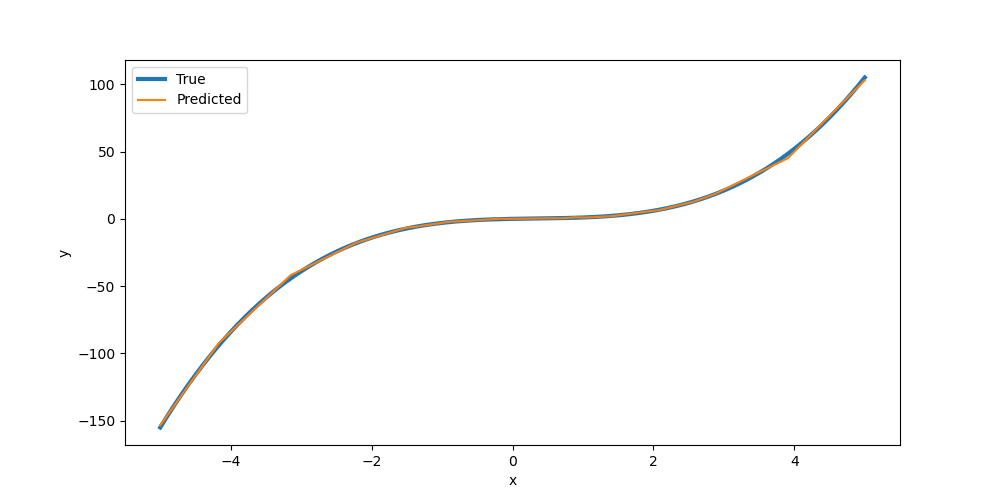
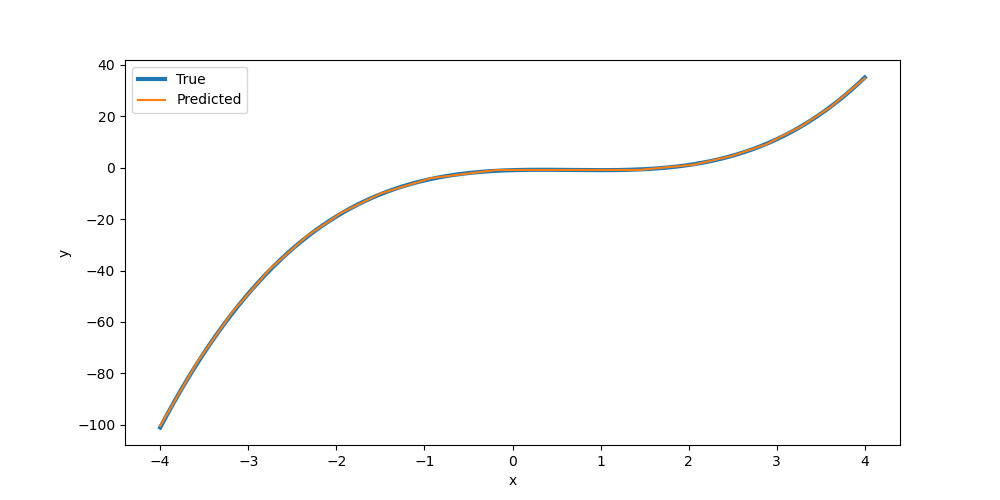
task1

diff --git a/DLhw1/task1.py b/DLhw1/task1.py
@@ -1,52 +1,56 @@
 from jittor import nn
 import jittor as jt
-import os 
 import numpy as np
-import matplotlib.pyplot as plt
 
-from jittor import distributions
 from model import Regressor
 from dataset import RandomData
+import utils
 
-def task1(to_fit, num_epoch = 1000, lr = 1e-2):
+def task1(function_to_fit, num_epoch = 800, lr = 5e-3, interval = [-5, 5]):
 
-    train_data = RandomData(to_fit, sample_size=800, batch_size=800)
-    test_data = RandomData(to_fit, sample_size=200)
+    train_data = RandomData(function_to_fit, sample_size=800, interval = interval)
+    test_data = RandomData(function_to_fit, sample_size=200, interval = interval)
     model = Regressor()
     optim = jt.optim.Adam(model.parameters(), lr)
     loss = nn.MSELoss()
     
+    train_losses, test_losses = [], []
     for epoch_idx in range(1, num_epoch + 1):
-        train(epoch_idx, model, optim, train_data, loss)
-    plot(to_fit, model)
+        train_loss = train(model, optim, train_data, loss)
+        test_loss = test(model, test_data, loss)
+        train_losses.append(train_loss)
+        test_losses.append(test_loss)
+        print(f'Epoch: {epoch_idx} \t Train Loss: {train_loss:.4f} \t Test Loss: {test_loss:.4f}')
+    utils.plot_fit(function_to_fit, model, interval)
+    utils.plot_loss(train_losses, test_losses)
 
-def train(epoch_idx, model, optimizer, train_data, loss_func):
+def train(model, optimizer, train_data, loss_func):
     model.train()
 
-    for batch_idx, (x, y) in enumerate(train_data):
+    train_losses = []
+    for _, (x, y) in enumerate(train_data):
         y_pred = model(x)
         loss = loss_func(y_pred, y)
+        train_loss = loss.item()
+        train_losses.append(train_loss)
         optimizer.step(loss)
-        print(loss.item())
+    return np.mean(train_losses)
 
-def plot(pdf, model, interval=[-5, 5], num_samples=1000):
 
-    plt.figure(figsize=(10, 5))
-    x = np.linspace(*interval, num_samples)
-    x_in = jt.array(x).reshape(-1, 1)
-    y = pdf(x_in)
-    y_pred = model(x_in)
-    y, y_pred = y.data, y_pred.data
-    plt.plot(x, y, label='True', linewidth=3)
-    plt.plot(x, y_pred, label='Predicted')
-    plt.xlabel('x')
-    plt.ylabel('y')
-    plt.legend()
-    plt.savefig(os.path.join('figs', 'fit.png'))
+def test(model, test_data, loss_func):
+    model.eval()
+
+    test_losses = []
+    with jt.no_grad():
+        for _, (x, y) in enumerate(test_data):
+            y_pred = model(x)
+            loss = loss_func(y_pred, y)
+            test_loss = loss.item()
+            test_losses.append(test_loss)
+    return np.mean(test_losses)
 
 
 if __name__ == "__main__":
     jt.set_seed(0)
-    gaussian = distributions.Normal(0, 1)
-    function_to_fit = lambda x : x**3 - x**2 + x 
-    task1(function_to_fit)
+    function_to_fit = lambda x : x ** 3 - 2 * x ** 2 + x - 1
+    task1(function_to_fit, interval=[-4, 4])

diff --git a/DLhw1/utils.py b/DLhw1/utils.py
@@ -1,0 +1,33 @@
+import os
+import jittor as jt
+import numpy as np
+import matplotlib.pyplot as plt
+
+
+def plot_loss(train_losses, test_losses):
+    
+    num_epoch = len(train_losses)
+    epochs = np.arange(1, num_epoch+1)
+
+    plt.figure(figsize=(10, 5))
+    plt.plot(epochs, train_losses, label='Train loss')
+    plt.plot(epochs, test_losses, label='Test loss')
+    plt.xlabel('Epochs')
+    plt.ylabel('Loss')
+    plt.ylim(0, 20)
+    plt.legend()
+    plt.savefig(os.path.join('figs', 'loss.png'))
+
+def plot_fit(f, model, interval, num_samples=1000):
+
+    plt.figure(figsize=(10, 5))
+    x = np.linspace(*interval, num_samples)
+    x_jt = jt.array(x).reshape(-1, 1)
+    y, y_pred = f(x_jt), model(x_jt)
+    y, y_pred = y.data, y_pred.data
+    plt.plot(x, y, label='True', linewidth=3)
+    plt.plot(x, y_pred, label='Predicted')
+    plt.xlabel('x')
+    plt.ylabel('y')
+    plt.legend()
+    plt.savefig(os.path.join('figs', 'fit.png'))

diff --git a/DLhw1/auxiliary.py b/DLhw1/auxiliary.py
@@ -20,20 +20,6 @@ def test_func(mean = 1, std = 2):
     print(gaussian.log_prob(3))
     print(gaussian.sample([2,3]))
 
-def get_data(mean=0, std=1, interval=[-5, 5], num_samples=1000, split=0.8):
-    gaussian = distributions.Normal(mean, std)
-    pdf = lambda xx: gaussian.log_prob(xx).exp()
-
-    x = jt.rand(num_samples) * (interval[1] - interval[0]) + interval[0]
-    y = pdf(x)
-
-    # Split the data
-    train_data = (x[:int(num_samples*split)], y[:int(num_samples*split)])
-    test_data = (x[int(num_samples*split):], y[int(num_samples*split):])
-
-    return train_data, test_data, pdf
-
-
 
 if __name__ == "__main__":
     x = jt.rand(8)
@@ -42,3 +28,4 @@ if __name__ == "__main__":
     print(type(a))
     print(a[0])
     print(x)
+

diff --git a/DLhw1/model.py b/DLhw1/model.py
@@ -1,17 +1,11 @@
-import jittor as jt
-from jittor import nn, Module, init
-
+from jittor import nn, Module
 
 class Regressor(Module):
     def __init__(self):
         super(Regressor, self).__init__()
         self.linear1 = nn.Linear(1, 16)
-        self.linear2 = nn.Linear(16, 32)
-        self.linear3 = nn.Linear(32, 16)
-        self.linear4 = nn.Linear(16, 1)
+        self.linear2 = nn.Linear(16, 1)
     def execute (self,x) :
         x = nn.relu(self.linear1(x))
-        x = nn.relu(self.linear2(x))
-        x = nn.relu(self.linear3(x))
-        y = self.linear4(x)
+        y = self.linear2(x)
         return y
